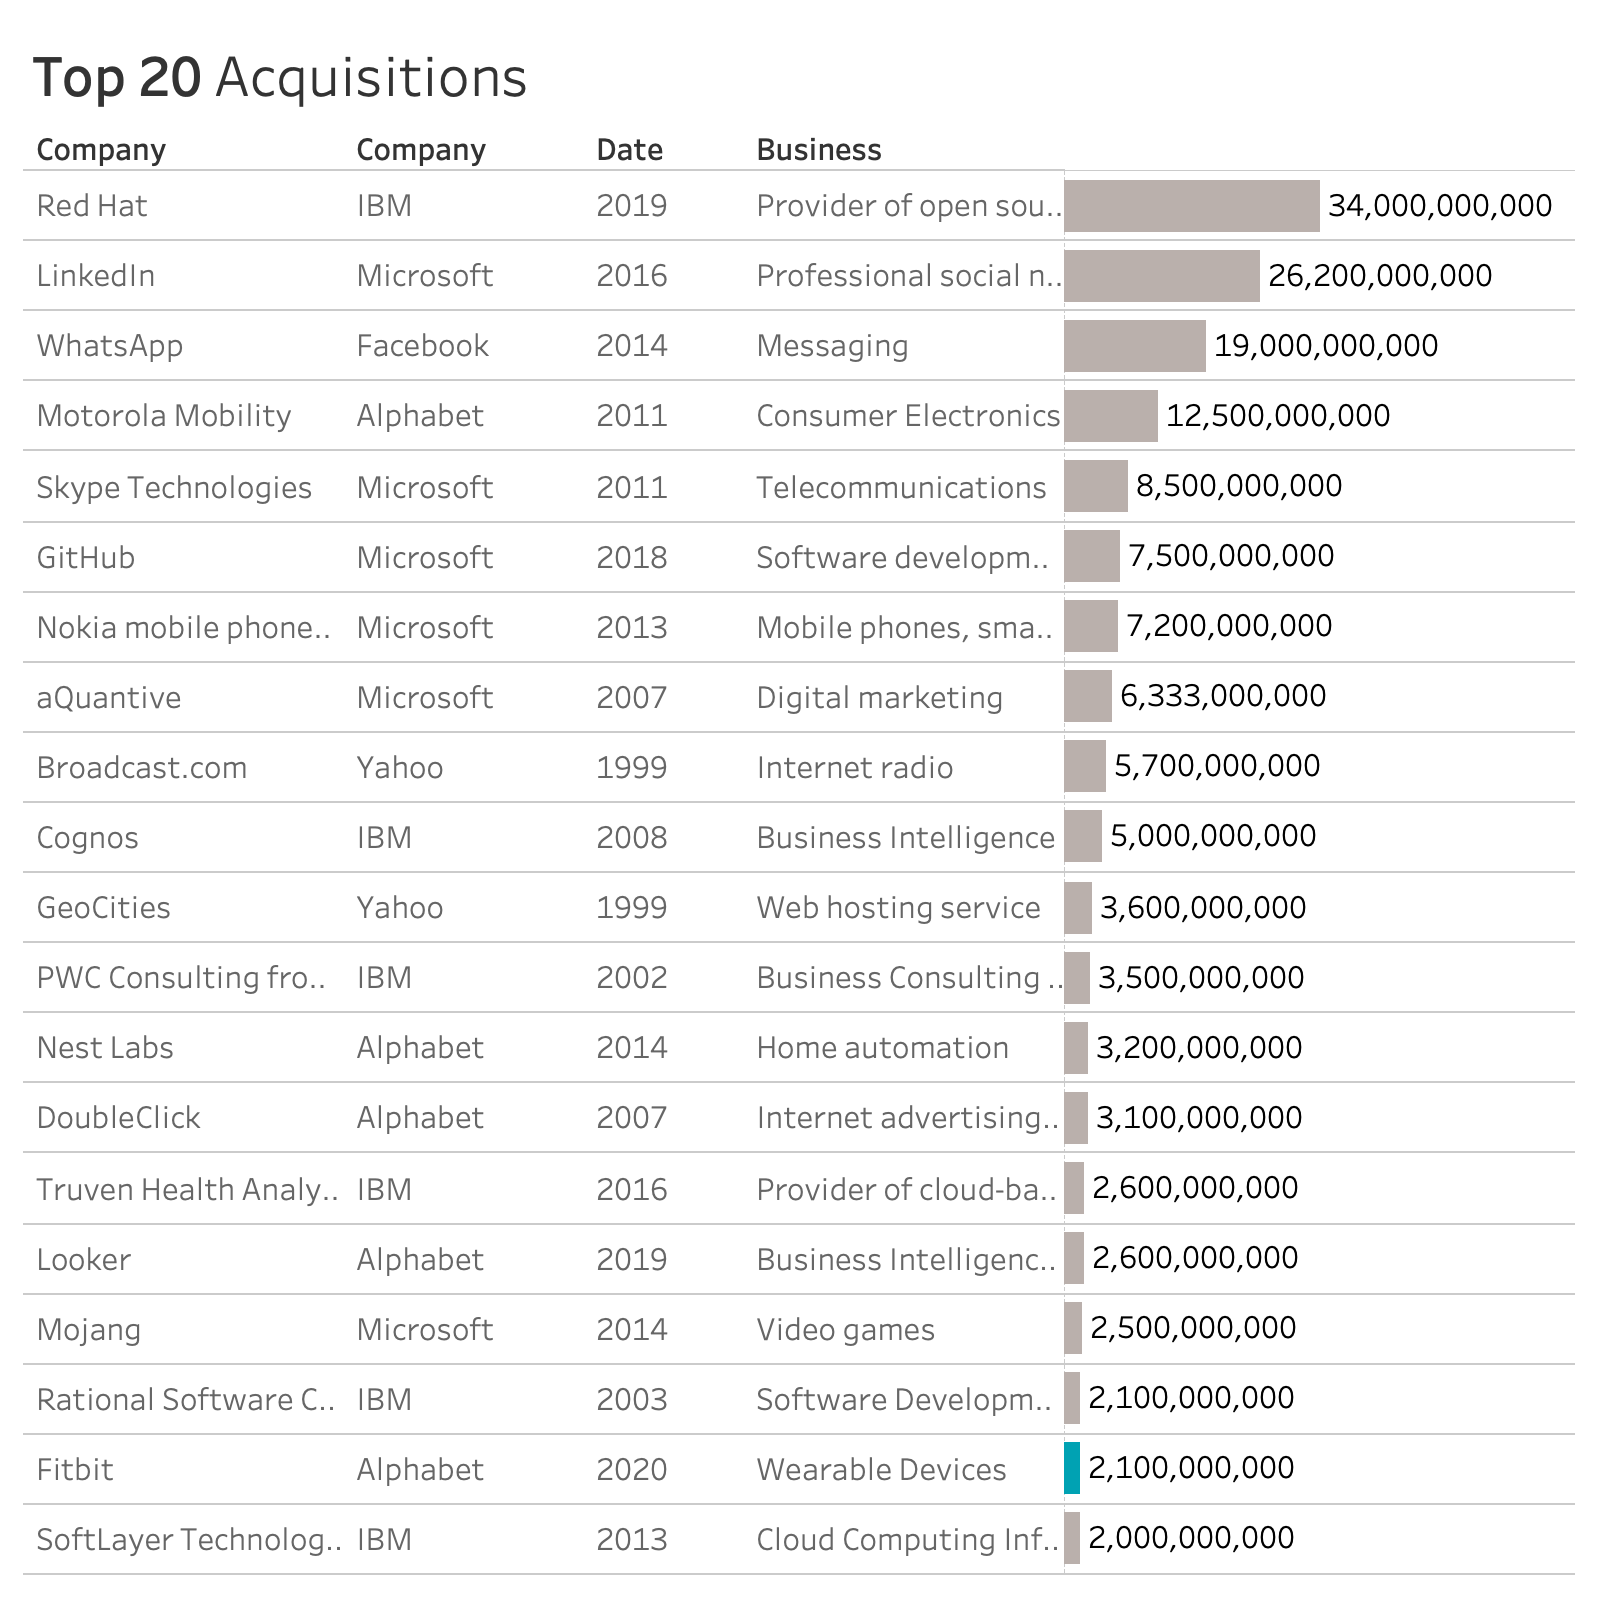
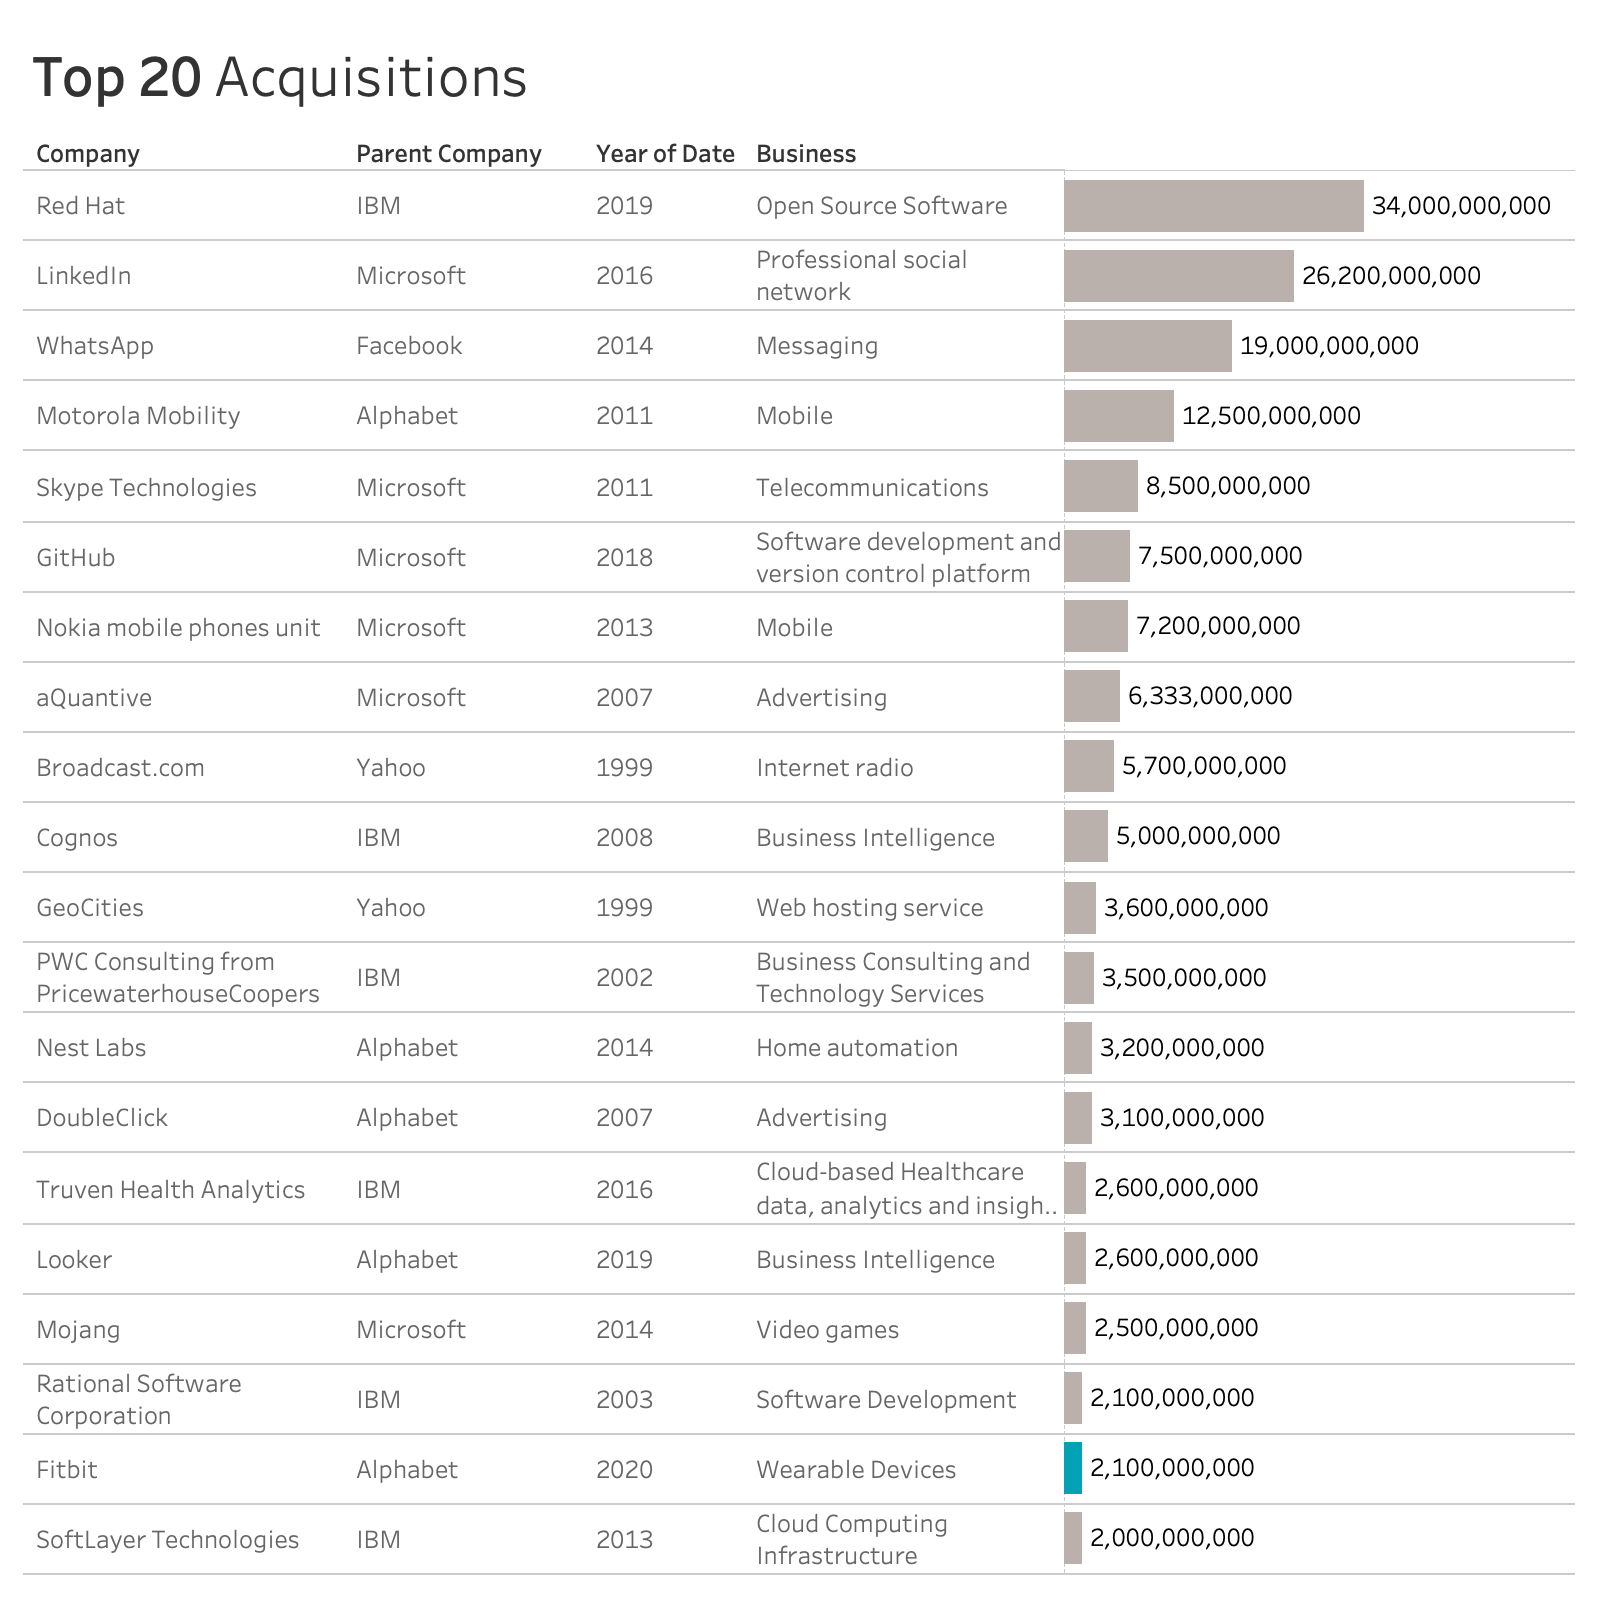
update

diff --git a/TechMA/index.html b/TechMA/index.html
@@ -84,10 +84,18 @@
 	   </div>
 	   <p class="article-text"></p>
 	   <p class="article-text">Alphabet started its first acquisition in 2005 by buying Android with 50M. Since then, Alphabet has acquired approximately 232 companies across different industries.</p>
-	   <p class="article-text">The above chart is on a logarithmic scale. With this scale, percentage increases and decreases are comparable. From the chart we can see that for the past five years, the acquisition value of Alphabet's were comparably larger than the 2005 to 2015 decade. And the number of acquisition is smaller than the previous 5-years, which may reflect the switch of Alphabet's acquisition strategies.</p>   
+	   <p class="article-text">The above chart is on a logarithmic scale. With this scale, percentage increases and decreases are comparable. From the chart we can see that for the past five years, the acquisition value of Alphabet's were comparably larger than the 2005 to 2015 decade. And the number of acquisition is smaller than the previous 5-years, which may reflect the switch of Alphabet's acquisition strategies.</p>
+	   <p class="article-text">
+			<img class="static-image"src="img/AlphaTrend.png">
+	   </p>                
+	   <p class="article-text">In 2014, Alphabet acquired 34 companies. Acquired companies include its later famous products <a href="https://www.crunchbase.com/organization/firebase">Firebase</a> and <a href="https://www.crunchbase.com/organization/nest-labs">Nest Labs</a>. Afterwards, the number of acquisitions shows a downward trend. Motorola Mobility is the biggest <a href="https://www.google.com/search?q=motorola+mobility+acquired+by+google&oq=motorola+Mobility+acqui&aqs=chrome.0.0j69i57j0l3.4886j0j4&sourceid=chrome&ie=UTF-8">acquisitions</a> of Alphabet, acquired for 12.5B in 2011. 
+	   </p>                                                
 	   <p class="article-text">
 			<img class="static-image"src="img/TopAlphabet.png">
-	   </p>                           
+	   </p>
+	   <p class="article-text"></p>
+	   <p class="article-text">Fitbit will be the fifth largest acquisitions of Alphabet and the only acquired company in wearables.</p> 
+	   <p class="article-text">Google’s acquisition strategy has been evolved from adtech (<a href="https://www.crunchbase.com/organization/admob">AdMob</a>, <a href="https://www.crunchbase.com/organization/doubleclick">DoubleClick</a>) in the late 2000s to mobile (Motorola Mobility, <a href="https://www.crunchbase.com/organization/apigee">Apigee</a>) and wearables (Fitbit) in the 2010s.</p>                        
 	<!-- Source -->
 	<div class="article-text">
 		<div id="footer">
